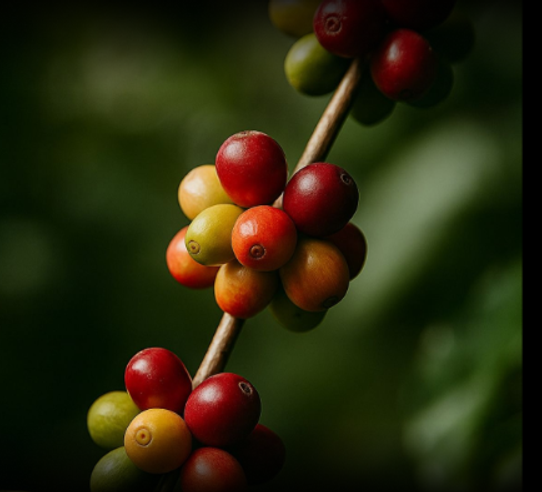
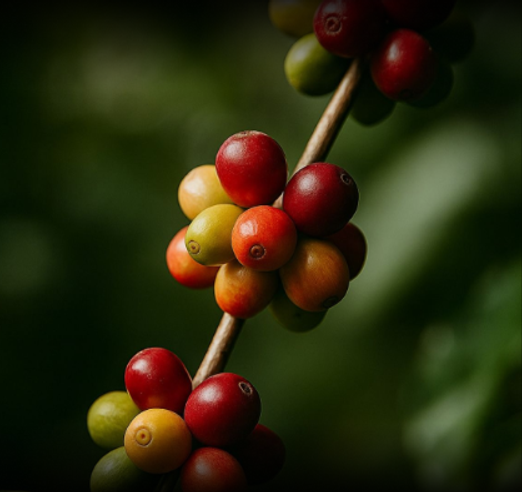
style(lorientalis): update Origin/Craft/Aroma typography & remove dead space in coffee section

diff --git a/src/app/lorientalis/page.tsx b/src/app/lorientalis/page.tsx
@@ -550,12 +550,12 @@ export default function LOrientalisPage() {
         }}
       >
         {/* TOP ROW: LEFT IMAGE (596x541) + RIGHT VERTICALLY CENTERED CONTENT */}
-        <div className="group/coffee w-full flex flex-col lg:flex-row items-center justify-between gap-8 lg:gap-[40px] xl:gap-[50px]">
+        <div className="group/coffee w-full flex flex-col lg:flex-row items-center justify-between gap-8 lg:gap-[32px] xl:gap-[40px]">
           {/* Left Image: 596px x 541px (+10% width & height) */}
           <div
             className="relative w-full max-w-[596px] overflow-hidden shrink-0 rounded-[2px]"
             style={{
-              aspectRatio: "542 / 492",
+              aspectRatio: "522 / 492",
               maxHeight: "541px",
             }}
           >
@@ -688,7 +688,7 @@ export default function LOrientalisPage() {
                   fontFamily: "var(--font-manrope), sans-serif",
                   fontWeight: 700,
                   fontSize: "14px",
-                  lineHeight: "10px",
+                  lineHeight: "14px",
                   letterSpacing: "0%",
                   textTransform: "uppercase",
                   color: "#5C605E",
@@ -697,12 +697,12 @@ export default function LOrientalisPage() {
                 Origin
               </span>
               <span
-                className="mt-[6px]"
+                className="mt-[14px]"
                 style={{
                   fontFamily: "var(--font-manrope), sans-serif",
                   fontWeight: 600,
-                  fontSize: "14px",
-                  lineHeight: "10px",
+                  fontSize: "16px",
+                  lineHeight: "16px",
                   letterSpacing: "0%",
                   textTransform: "uppercase",
                   color: "#FFFFFF",
@@ -740,7 +740,7 @@ export default function LOrientalisPage() {
                   fontFamily: "var(--font-manrope), sans-serif",
                   fontWeight: 700,
                   fontSize: "14px",
-                  lineHeight: "10px",
+                  lineHeight: "14px",
                   letterSpacing: "0%",
                   textTransform: "uppercase",
                   color: "#5C605E",
@@ -749,12 +749,12 @@ export default function LOrientalisPage() {
                 Craft
               </span>
               <span
-                className="mt-[6px]"
+                className="mt-[14px]"
                 style={{
                   fontFamily: "var(--font-manrope), sans-serif",
                   fontWeight: 600,
-                  fontSize: "14px",
-                  lineHeight: "10px",
+                  fontSize: "16px",
+                  lineHeight: "16px",
                   letterSpacing: "0%",
                   textTransform: "uppercase",
                   color: "#FFFFFF",
@@ -792,7 +792,7 @@ export default function LOrientalisPage() {
                   fontFamily: "var(--font-manrope), sans-serif",
                   fontWeight: 700,
                   fontSize: "14px",
-                  lineHeight: "10px",
+                  lineHeight: "14px",
                   letterSpacing: "0%",
                   textTransform: "uppercase",
                   color: "#5C605E",
@@ -801,12 +801,12 @@ export default function LOrientalisPage() {
                 Aroma
               </span>
               <span
-                className="mt-[6px]"
+                className="mt-[14px]"
                 style={{
                   fontFamily: "var(--font-manrope), sans-serif",
                   fontWeight: 600,
-                  fontSize: "14px",
-                  lineHeight: "10px",
+                  fontSize: "16px",
+                  lineHeight: "16px",
                   letterSpacing: "0%",
                   textTransform: "uppercase",
                   color: "#FFFFFF",
